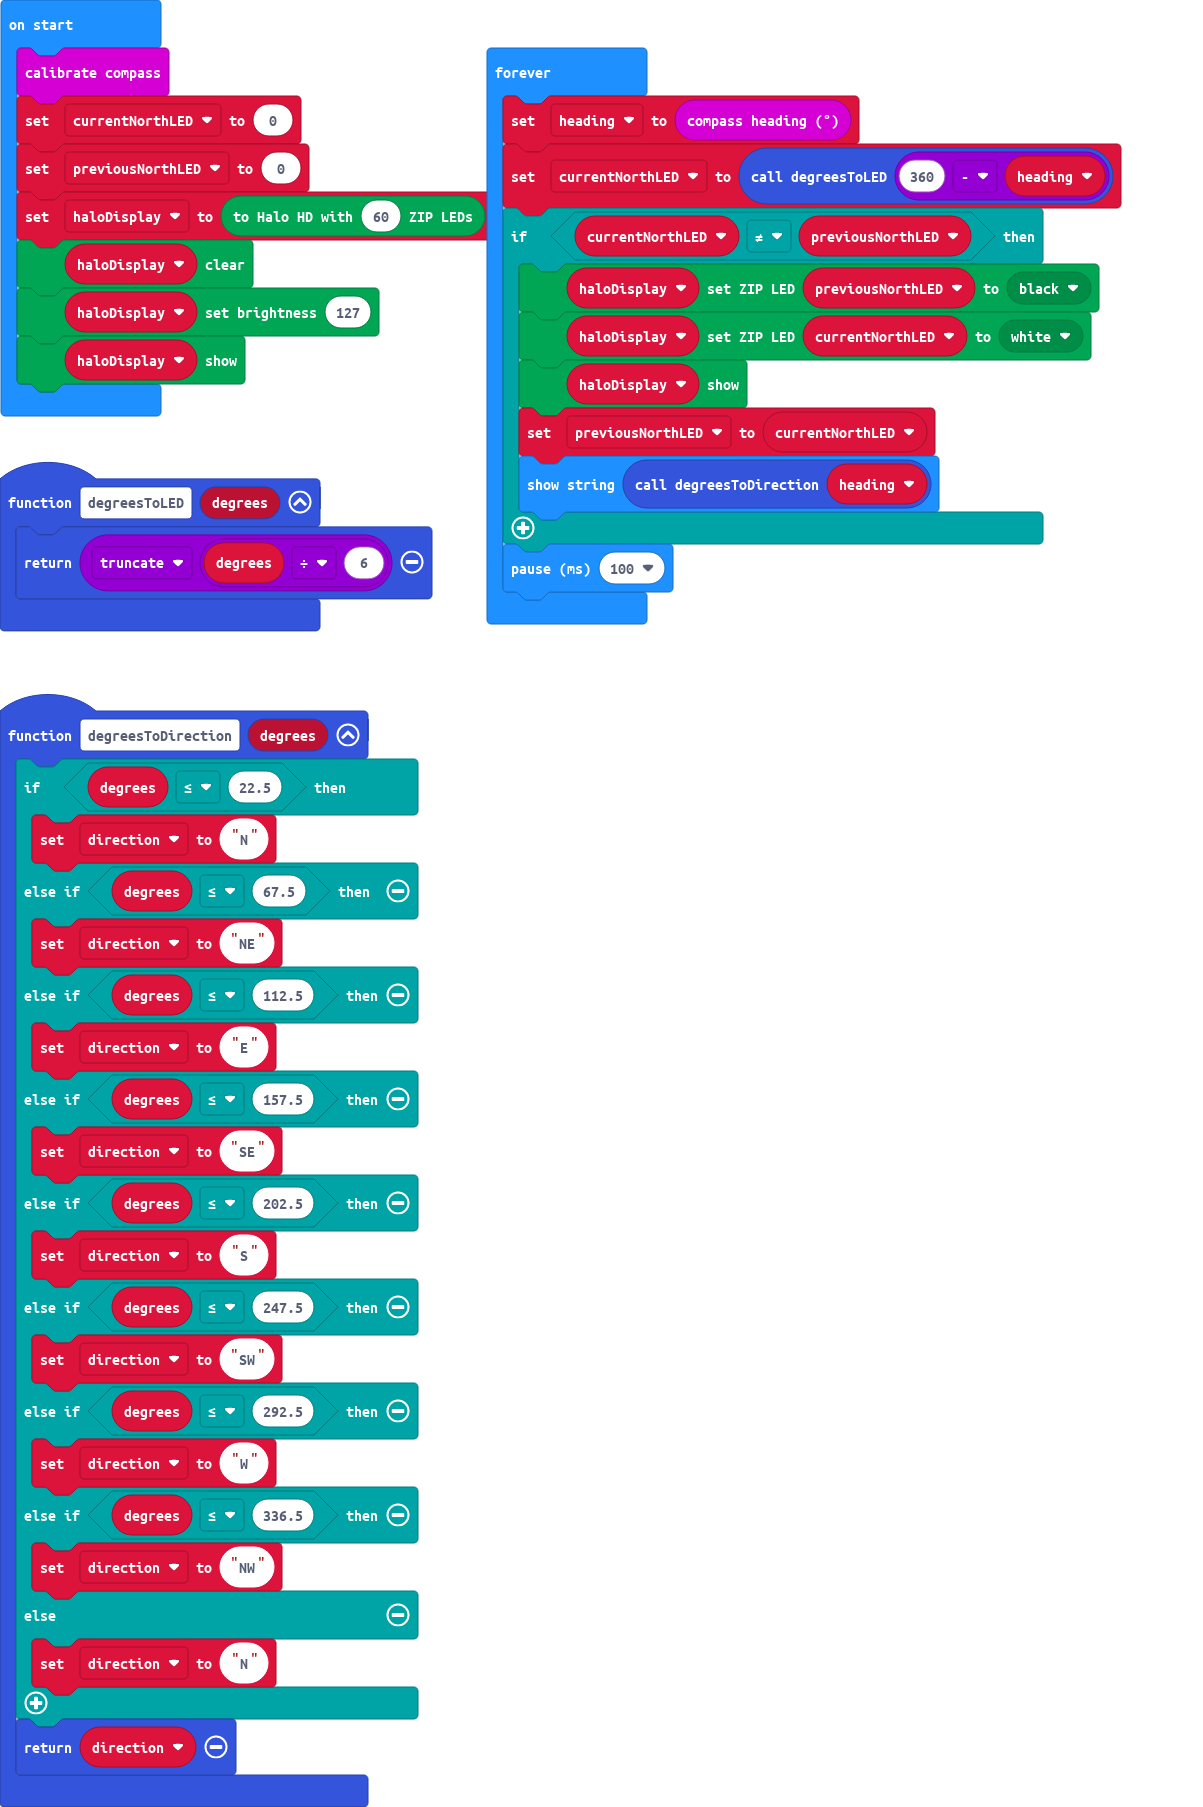
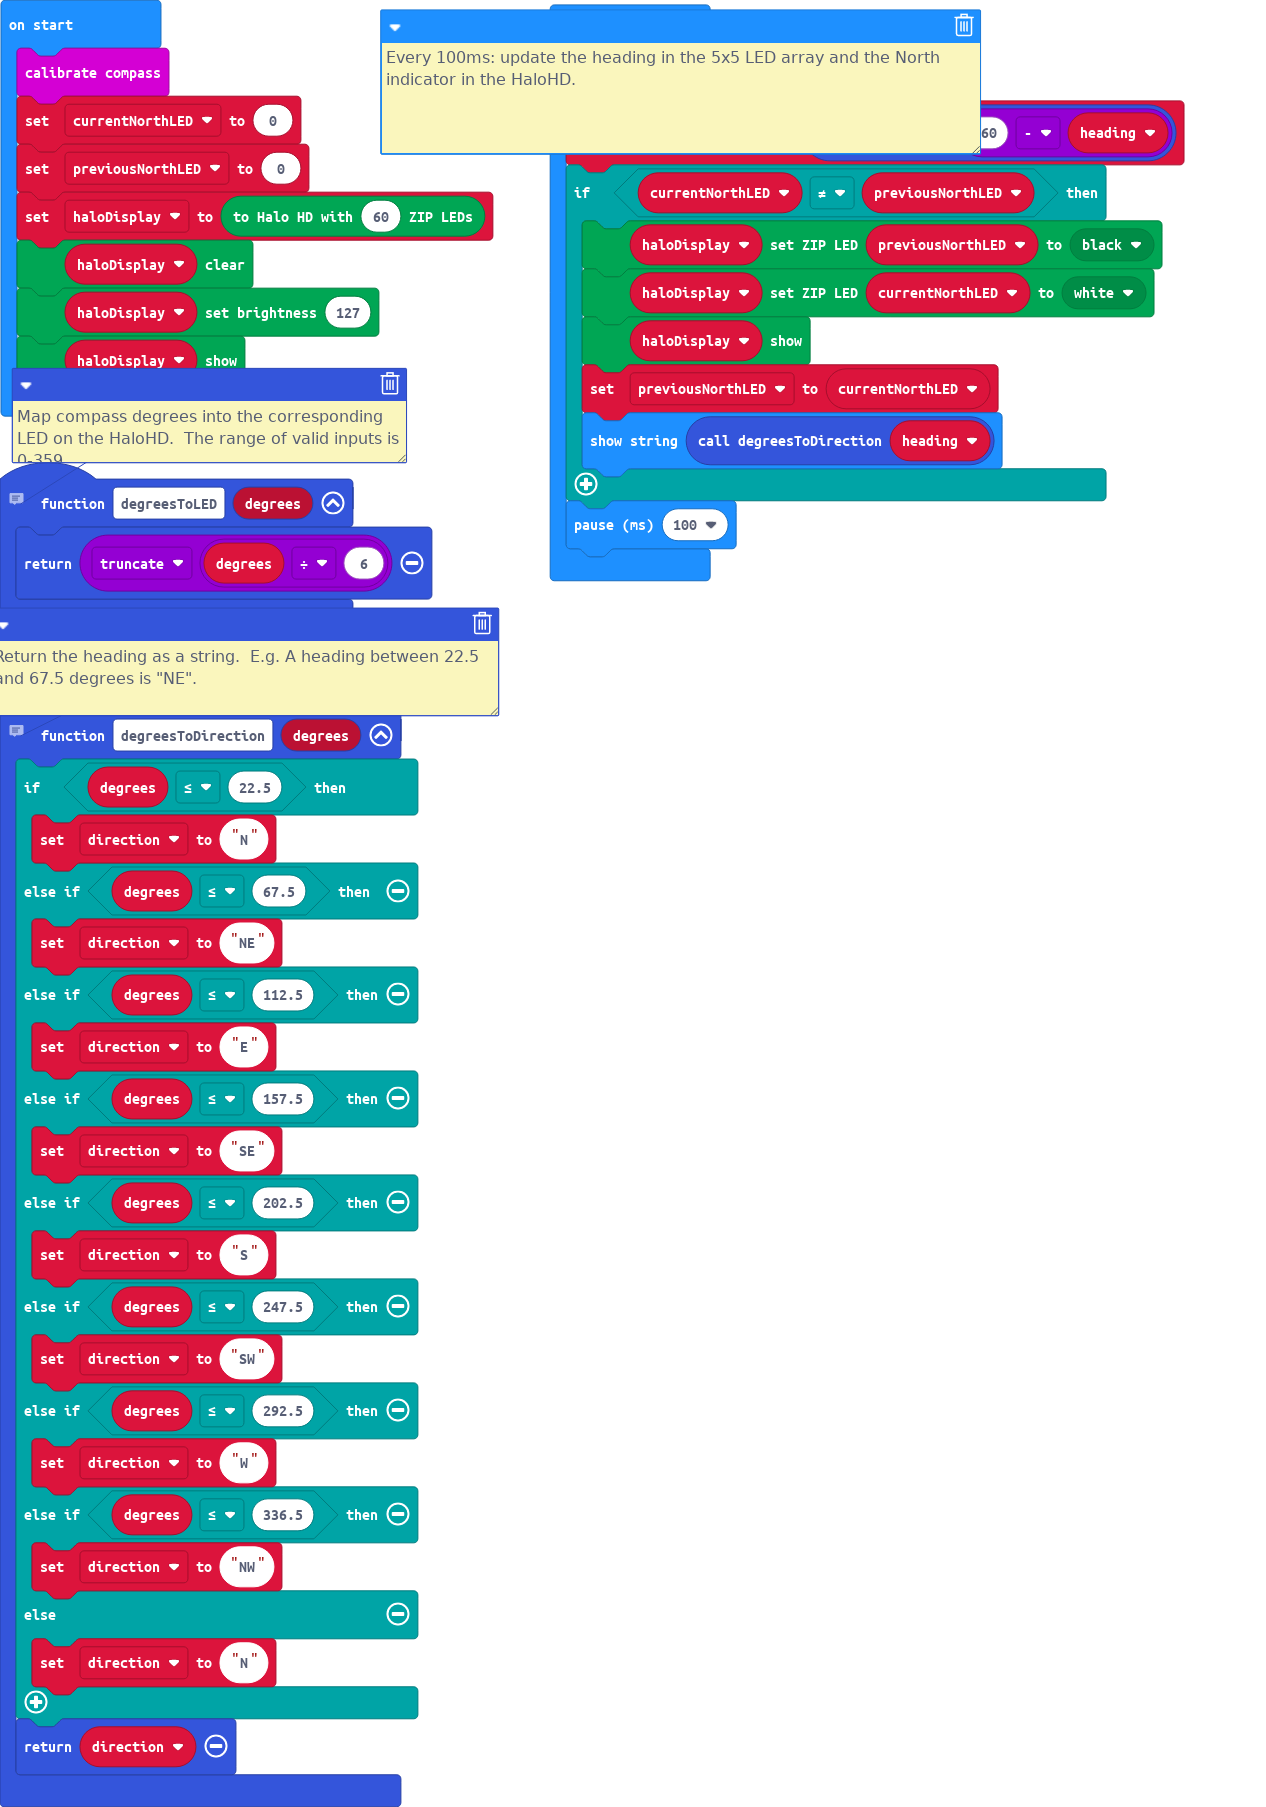
Added some comments

Changed region(s): [[0.0, 0.0, 0.9534, 1.0]]

diff --git a/main.ts b/main.ts
@@ -1,3 +1,4 @@
+// Return the heading as a string.  E.g. A heading between 22.5 and 67.5 degrees is "NE".
 function degreesToDirection (degrees: number) {
     if (degrees <= 22.5) {
         direction = "N"
@@ -20,6 +21,7 @@ function degreesToDirection (degrees: number) {
     }
     return direction
 }
+// Map compass degrees into the corresponding LED on the HaloHD.  The range of valid inputs is 0-359.
 function degreesToLED (degrees: number) {
     return Math.trunc(degrees / 6)
 }
@@ -32,6 +34,7 @@ let haloDisplay = kitronik_halo_hd.createZIPHaloDisplay(60)
 haloDisplay.clear()
 haloDisplay.setBrightness(127)
 haloDisplay.show()
+// Every 100ms: update the heading in the 5x5 LED array and the North indicator in the HaloHD.
 basic.forever(function () {
     heading = input.compassHeading()
     currentNorthLED = degreesToLED(360 - heading)
